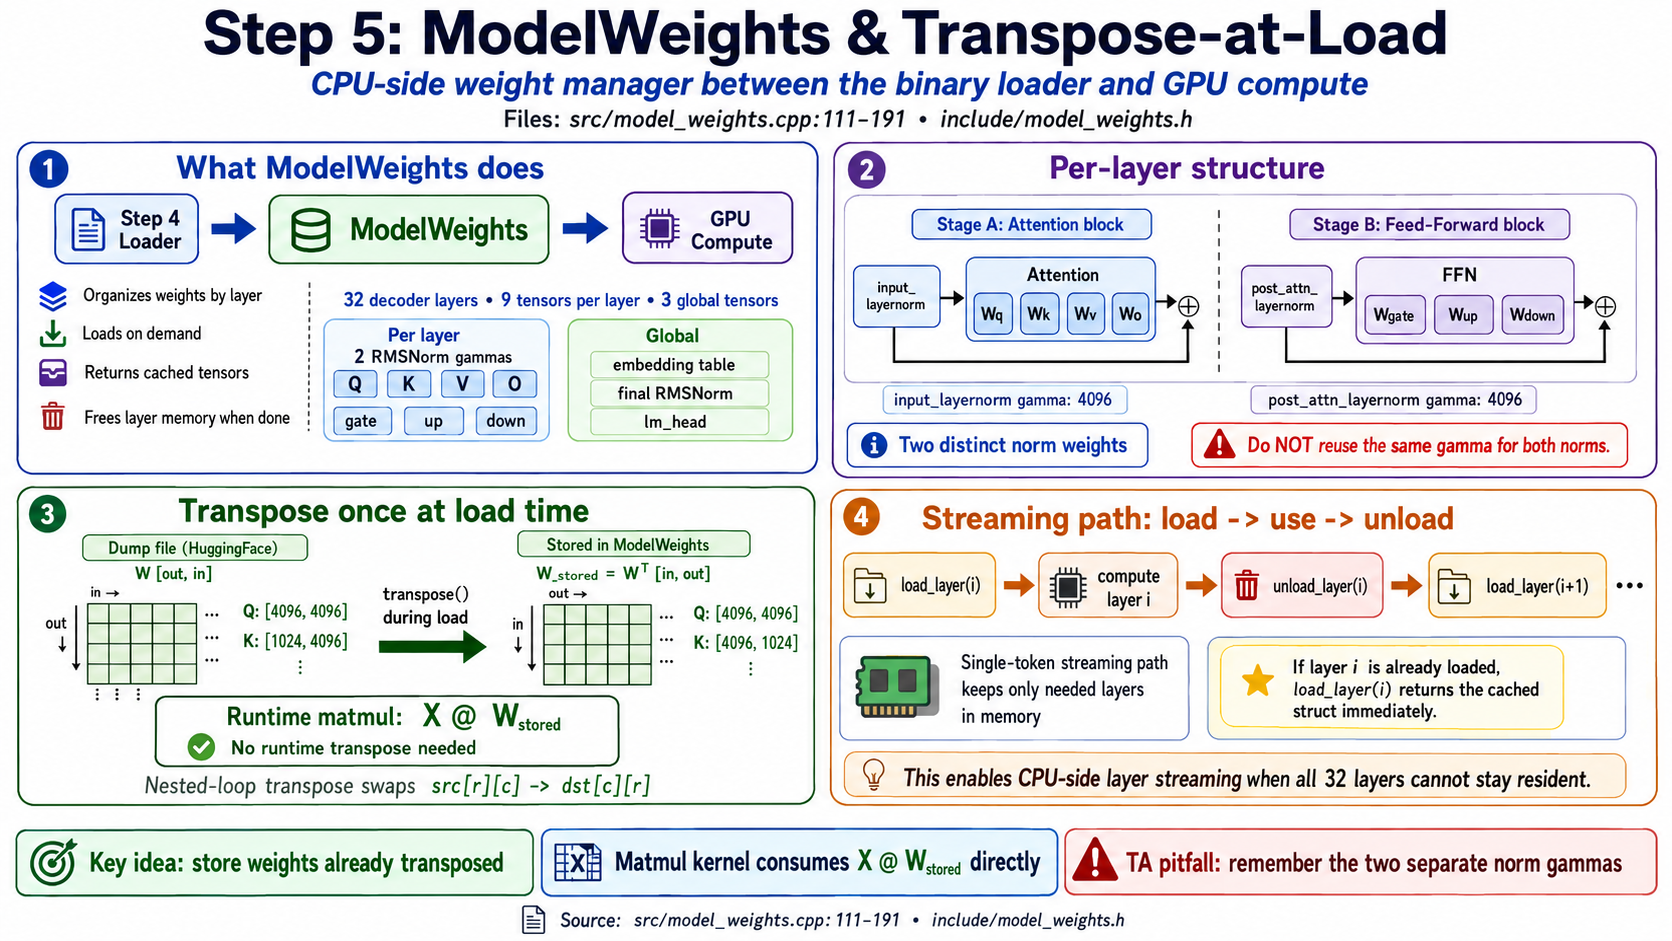
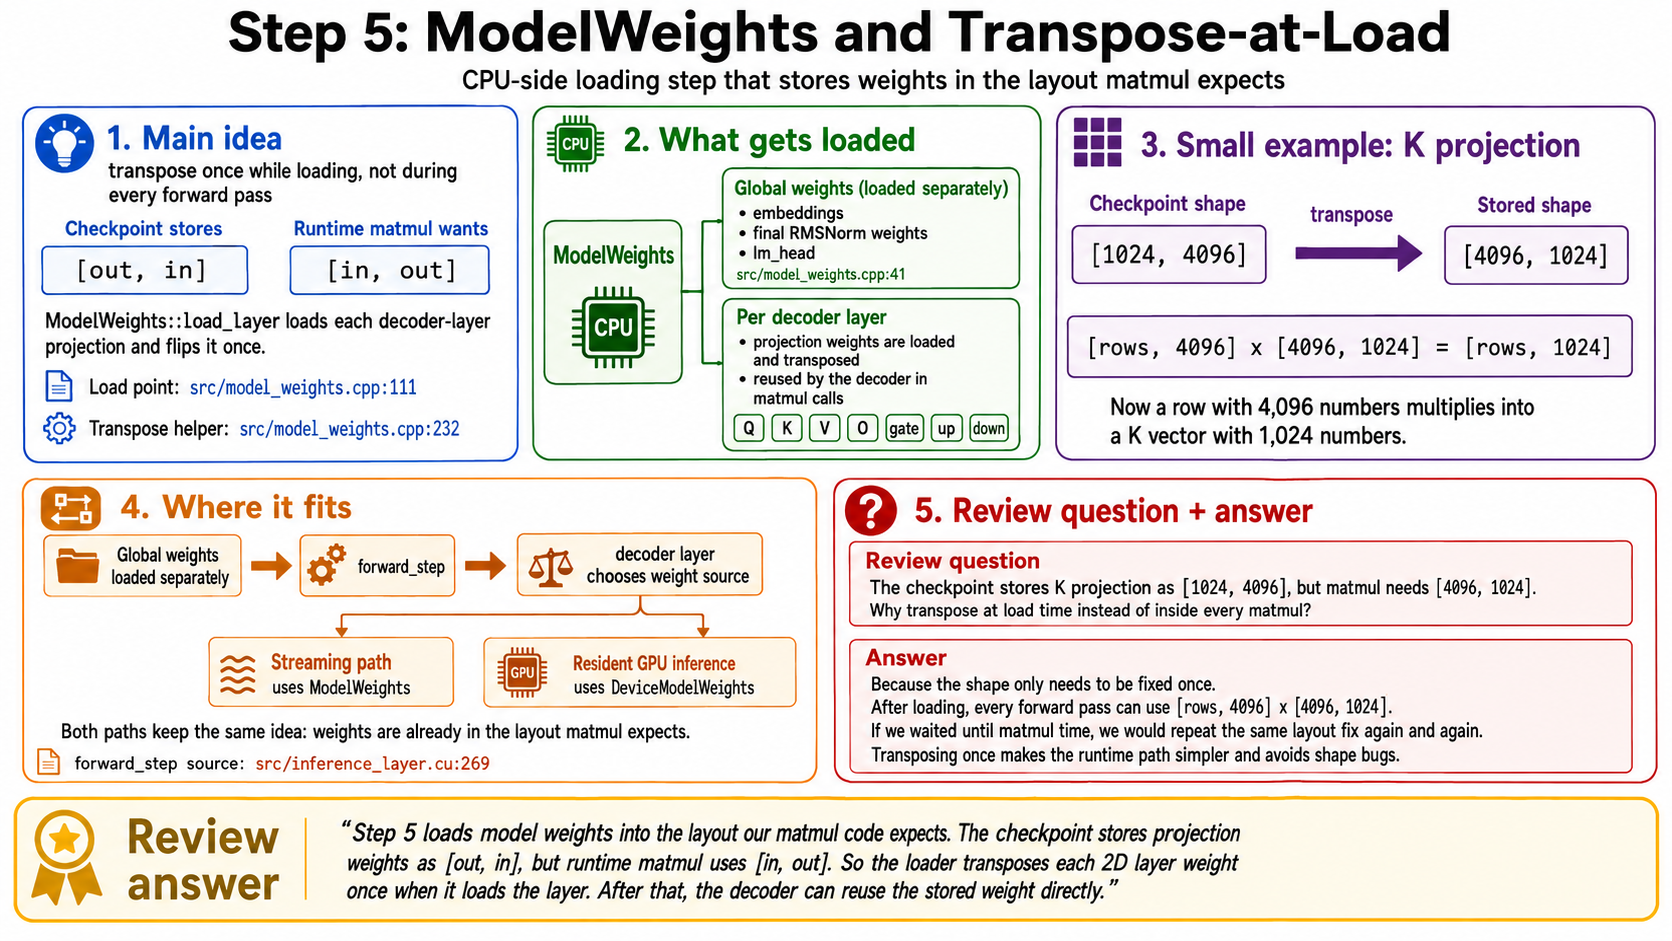
docs: expand learn cue cards with inline definitions and refresh codemaps
Adds plain-language definitions for one-hot, FFN projections (gate/up/down),
FP32 accumulation, and Q/K/V roles in the step5-9 cue cards; introduces
docs/learn/theMath.md tracing the "what is the state of Texas?" prompt
through tokenize -> embed -> RMSNorm -> Q/K/V. Refreshes CODEMAPS and
docs/generated/* with current test counts (38 M2-3), updated dates, and
corrected per-head attention description.

diff --git a/docs/learn/theMath.md b/docs/learn/theMath.md
@@ -1,0 +1,47 @@
+Math so far, traced through "what is the state of Texas?":
+
+**1. Tokenize  (Step 3)**
+Text → list of integer token IDs. The prompt becomes roughly 10 integers (BOS + ~7 word-piece tokens + chat-template wrapping).
+- Math: dictionary lookup, no arithmetic
+- Shape: `[s]`
+
+**2. Embed  (Step 6)**
+Each token ID picks one row from the embedding table (128,256 rows × 4,096 cols).
+- Math: row lookup (the "skip the one-hot matmul" trick)
+- Output: matrix `X` of shape `[s, 4096]` — one 4,096-number "description" per token
+
+**3. RMSNorm  (Step 8)**
+For every row of `X`, compute `rms = sqrt(mean(x²) + ε)`, divide the row by `rms`, then multiply element-wise by learned `gamma[4096]`.
+- Math: per-row rescale + element-wise multiply by learned weight
+- Output: `X_norm` of shape `[s, 4096]`
+
+**4. Q, K, V projections  (Step 9)**
+Three independent matmuls of `X_norm` against learned weight matrices.
+```text
+Q = X_norm @ W_Q  →  [s, 4096]   (32 query heads × 128)
+K = X_norm @ W_K  →  [s, 1024]   (8 KV heads × 128)
+V = X_norm @ W_V  →  [s, 1024]   (8 KV heads × 128)
+```
+- Math: matrix multiplies (each output number = a 4,096-term dot product, accumulated in FP32)
+- Output: three matrices, one row per token
+
+**Role in next-token prediction so far**
+
+Each token in your prompt now has three derived vectors:
+- `Q` — "what am I looking for in earlier tokens?"
+- `K` — "what do I offer for matching?"
+- `V` — "what content do I have to share?"
+
+The numbers don't yet *know* anything specific about "Texas" or "state" — those concepts are encoded inside the learned weights `W_Q/K/V`, which were trained so that, for example, the Q vector for `"is"` will end up matching strongly against the K vector for `"Texas"` once attention runs.
+
+**What still has to happen (steps 10+) before a next token pops out**
+
+- **RoPE**: rotate Q and K to bake positional info in (so the model knows `Texas` is at position 6, not 2).
+- **Attention**: `Q · K → softmax → weights`; blend V vectors using those weights → each token's vector now contains a smoothie of earlier tokens.
+- **Output projection** `W_O`, **residual add**, **second RMSNorm**, **FFN** (`gate`/`up`/`down`), **residual add** = one full decoder layer.
+- **Repeat × 32 layers.**
+- **Final RMSNorm** on the last token's row only.
+- **`lm_head`** matmul: turn that single 4,096-vector into 128,256 logits.
+- **`argmax`** over the logits → the next token ID → decode → text.
+
+For "what is the state of Texas?", the model's argmax would eventually pick whichever vocab word it scored highest — likely something like `"Texas"` continues with `"is"`, then `"located"`, then `"in"`, then `"the"`, etc., one token at a time.

diff --git a/docs/learn/step7.md b/docs/learn/step7.md
@@ -11,6 +11,32 @@ up, down, and the attention matmuls.
 
 The kernel does not know what Q or K means. It only knows matrix shapes.
 
+### What `gate`, `up`, and `down` mean
+
+That list splits cleanly. Q, K, V, O are the **attention** matmuls (covered in
+later steps). `gate`, `up`, `down` are the **FFN** (feed-forward network)
+matmuls — the per-layer MLP block that runs right after attention:
+
+- **`up`**: widens the 4,096-dim vector up to 14,336 dim. Shape `[4096, 14336]`.
+- **`gate`**: also widens 4,096 -> 14,336, but its output is fed through SiLU
+  and used as a gating signal that multiplies element-wise into `up`. Same
+  shape as `up`.
+- **`down`**: narrows the 14,336-dim result back down to 4,096 dim. Shape
+  `[14336, 4096]`.
+
+Order in code:
+
+```text
+gate_out = X @ W_gate          # [s, 14336]
+up_out   = X @ W_up            # [s, 14336]
+hidden   = SiLU(gate_out) * up_out
+ffn_out  = hidden @ W_down     # [s, 4096]
+```
+
+`SiLU(gate) * up` is the **SwiGLU** activation. The names are literal: `up`
+widens, `down` narrows, and `gate` decides how much of `up` actually gets
+through.
+
 ### Main idea
 
 The main idea is **reuse**.
@@ -59,6 +85,16 @@ The BF16-weight version starts at `kernel/matmul.cu:358` in
 
 It stores weights as BF16 to save memory, widens them to FP32 inside the
 kernel, and still accumulates in FP32.
+
+"Accumulates in FP32" means the running total is kept in FP32 even though the
+inputs are BF16.
+
+Why it matters: BF16 has less precision than FP32, so if you also stored the
+running total as BF16, the small rounding errors from each of the 4,096 adds
+would compound and your output would drift.
+
+FP32 accumulation keeps the running tally exact, so only the inputs lose a bit
+of precision — not the sum.
 
 ### The exception
 

diff --git a/docs/CODEMAPS/architecture.md b/docs/CODEMAPS/architecture.md
@@ -1,4 +1,4 @@
-<!-- Generated: 2026-05-02 | Updated: 2026-05-05 | Files scanned: 24 source + 7 kernel + 8 tool | Token estimate: ~750 -->
+<!-- Generated: 2026-05-02 | Updated: 2026-05-08 | Files scanned: 26 source + 8 kernel + 8 tool | Token estimate: ~800 -->
 
 # Architecture
 
@@ -20,11 +20,11 @@ Prompt
   -> BPETokenizer.decode
 ```
 
-Three CLI modes:
+Four CLI modes (selected in `main.cpp` argv parser):
 - `bin/llm "prompt"` -> single token via `generate_next_token` (FP32 streaming path)
-- `bin/llm --max-tokens N "prompt"` -> N tokens via `generate_tokens` (resident BF16 + KV cache)
+- `bin/llm --max-tokens N "prompt"` -> N tokens via `generate_tokens_resident` (resident BF16 + KV cache)
+- `bin/llm --prompt p1 --prompt p2 --max-tokens N` -> B>1 batched `generate_tokens_resident` (equal-length tokenizations only)
 - `bin/llm --interactive --max-tokens N` -> REPL (N >= 2): weights load once, prompt loop on stdin
-- `bin/llm --prompt p1 --prompt p2 --max-tokens N` -> B>1 batched generation (TODO #2 bonus)
 
 Resident BF16 weights load once at REPL/multi-token startup (~165s cold) and stay on
 the GPU. Each decode step uses the cached weights + KVCache, so per-token latency is
@@ -45,12 +45,19 @@ include/milifloat.h          bf16_to_float(), half_to_float()
 include/model_weights.h      LayerWeights, GlobalWeights, ModelWeights
 src/model_weights.cpp        Transpose-at-load, layer-by-layer streaming
 
-include/inference.h          generate_next_token(), generate_tokens(), decode_token()
+include/inference.h          generate_next_token(), generate_tokens(),
+                              generate_*_resident() (single/multi/batched/debug),
+                              decode_token(), GenerateDebugResult
 src/inference.cu             Public-API facade: thin delegators to *_impl
 src/inference_chat.cu        Llama 3 Instruct chat-template wrapping
 src/inference_layer.cu       forward_step + per-head attention + lm_head logits
 src/inference_loop.cu        Three orchestrators (single, KV-cached, batched)
 src/inference_internal.h     Project-internal cross-TU declarations
+
+include/device_weights.h     DeviceLayerWeights, DeviceModelWeights:
+                              GPU-resident BF16 projections + FP32 layernorms
+src/device_weights.cu        cudaMalloc upload, transposed BF16 projections,
+                              load_layer / load_all_layers / unload_layer
 
 include/kv_cache.h           KVCache: device-side per-layer K/V buffers
 src/kv_cache.cu              cudaMalloc/cudaFree of [max_len, kv_dim] per layer
@@ -63,7 +70,9 @@ include/prelude.h            Common type aliases and STL imports
 ## Build Dispatch
 ```
 Makefile: nvcc detected?
-  yes -> kernel/*.cu + src/*.cu compiled, CUDA_ENABLED defined
+  yes -> kernel/*.cu + src/*.cu compiled, CUDA_ENABLED defined,
+         model_weights / device_weights / inference{,_chat,_layer,_loop} /
+         kv_cache / 6 kernels linked into bin/llm
   no  -> bin/llm refuses to link; bin/tests still builds via kernel/matmul_cpu.cpp
 
 ARCH variable selects target SM (default sm_75 for T4 fallback;

diff --git a/docs/learn/step5.md b/docs/learn/step5.md
@@ -52,6 +52,22 @@ Now a row with 4,096 numbers can multiply into a K vector with 1,024 numbers.
 [rows, 4096] x [4096, 1024] = [rows, 1024]
 ```
 
+### The FFN projections (`gate`, `up`, `down`)
+
+The K projection above is one example. Every decoder layer also has three
+**FFN** (feed-forward network) weights that get the same transpose-at-load
+treatment — these are the `gate`, `up`, `down` boxes shown in `step5.png`
+alongside Q/K/V/O:
+
+- **`up`** and **`gate`**: each widens 4,096 -> 14,336. Stored on disk as
+  `[14336, 4096]`, transposed to `[4096, 14336]` at load.
+- **`down`**: narrows 14,336 -> 4,096. Stored as `[4096, 14336]`, transposed
+  to `[14336, 4096]`.
+
+The loader does not care what they're for. It just runs the same
+`[out, in] -> [in, out]` flip on every 2D weight. Step 7 covers what
+`gate`, `up`, `down` actually compute (SwiGLU FFN).
+
 ### Where it fits
 
 Global weights are loaded separately at `src/model_weights.cpp:41`. That includes

diff --git a/docs/learn/step9.md b/docs/learn/step9.md
@@ -16,9 +16,13 @@ V = X_norm x W_V  -> [rows, 1024]
 Step 5 already transposed the checkpoint weights, so here `W_Q`, `W_K`, and
 `W_V` mean the stored `[in, out]` matrices.
 
-A query, or Q, is what a token is looking for. A key, or K, is what another
-token can match against. A value, or V, is the information attention will mix
-into the output.
+A query, or Q, is what a token is looking for.
+
+A key, or K, is what each token offers up so others can match against it.
+
+A value, or V, is the content that gets blended into the output.
+
+Q and K decide *how much* to mix in; V is *what* gets mixed.
 
 The key detail is the shape difference. The constants start at `config.h:17`:
 32 query heads, 8 key/value heads, and 128 numbers per head. So Q is

diff --git a/docs/learn/walkthrough-summary.md b/docs/learn/walkthrough-summary.md
@@ -4,6 +4,15 @@
 
 Prompt -> chat-template token IDs (special tokens + BPE prompt) -> embed [s, 4096] -> 32 decoder layers -> final RMSNorm -> last-token extract -> lm_head [128256] -> argmax -> text.
 
+### Glossary (terms used above)
+
+| Term            | Plain meaning                                                  | Where                            |
+| --------------- | -------------------------------------------------------------- | -------------------------------- |
+| **one-hot**     | Vector of zeros with a single `1` at one position; the `1`'s index = the token ID. Embedding math is `one-hot × table`, but code skips the multiply (mostly zeros) | `src/loader.cpp:348-381` (direct row copy) |
+| **logit**       | Raw score for one vocab word; bigger = more likely (not a probability yet) | output of `lm_head`              |
+| **`lm_head`**   | Final matrix that scores all 128,256 vocab words; does not pick one | `src/inference_layer.cu:450-460` |
+| **`argmax`**    | Picks the index of the biggest logit; that index is the next token  | `src/inference_layer.cu:450-460` |
+
 ### M1 Mandatory (matmul kernel)
 
 | Optimization            | What it does                                   | Where               |

diff --git a/docs/learn/step6.md b/docs/learn/step6.md
@@ -57,6 +57,10 @@ Just row lookup.
 
 ### This is not a matmul
 
+A **one-hot vector** is a vector that is all zeros except for a single `1` at one position — the position tells you "which item." For the embedding case, the vector has length 128,256 (the vocab size), with the `1` at the position of the token ID.
+
+Tiny example: pretend the vocab is just 5 words `[cat, dog, fish, bird, ant]`. Token ID 2 = "fish". The one-hot for "fish" is `[0, 0, 1, 0, 0]`.
+
 Mathematically, embedding lookup can be described as a one-hot vector times the embedding table.
 
 But the code does not do that.
@@ -72,3 +76,4 @@ That is the whole trick.
 If a TA asks what embedding lookup does, say:
 
 > It turns token IDs into vectors. Each token ID selects one row from the embedding table, so a sequence of `s` token IDs becomes an `[s, 4096]` matrix. That matrix is the input to the first decoder layer.
+

diff --git a/docs/CODEMAPS/data.md b/docs/CODEMAPS/data.md
@@ -1,4 +1,4 @@
-<!-- Generated: 2026-05-02 | Updated: 2026-05-05 | Files scanned: 5 (loader, model_weights, dumper, gen_token_model, kv_cache) | Token estimate: ~550 -->
+<!-- Generated: 2026-05-02 | Updated: 2026-05-08 | Files scanned: 6 (loader, model_weights, device_weights, dumper, gen_token_model, kv_cache) | Token estimate: ~550 -->
 
 # Data Format
 

diff --git a/docs/CODEMAPS/dependencies.md b/docs/CODEMAPS/dependencies.md
@@ -1,4 +1,4 @@
-<!-- Generated: 2026-05-02 | Updated: 2026-05-05 | Files scanned: Makefile + tools/ + scripts/ | Token estimate: ~450 -->
+<!-- Generated: 2026-05-02 | Updated: 2026-05-08 | Files scanned: Makefile + tools/ + scripts/ | Token estimate: ~450 -->
 
 # Dependencies
 

diff --git a/docs/CODEMAPS/kernels.md b/docs/CODEMAPS/kernels.md
@@ -1,4 +1,4 @@
-<!-- Generated: 2026-05-02 | Updated: 2026-05-05 | Files scanned: 7 kernel files | Token estimate: ~600 -->
+<!-- Generated: 2026-05-02 | Updated: 2026-05-08 | Files scanned: 8 kernel files | Token estimate: ~600 -->
 
 # CUDA Kernels
 

diff --git a/docs/index.md b/docs/index.md
@@ -1,6 +1,6 @@
 # CS265 LLM Inference Engine — Documentation Index
 
-**Generated:** 2026-03-29 | **Scan Level:** Exhaustive | **Mode:** Initial Scan
+**Generated:** 2026-03-29 | **Updated:** 2026-05-08 | **Scan Level:** Exhaustive | **Mode:** Initial Scan
 
 ## Project Overview
 

diff --git a/docs/learn/step2.md b/docs/learn/step2.md
@@ -48,3 +48,4 @@ If you closed the assistant turn with EOT, the model would see a complete conver
 The open assistant turn is what makes the model "fill in the blank." Close it and there's no blank to fill.
 
 ---
+